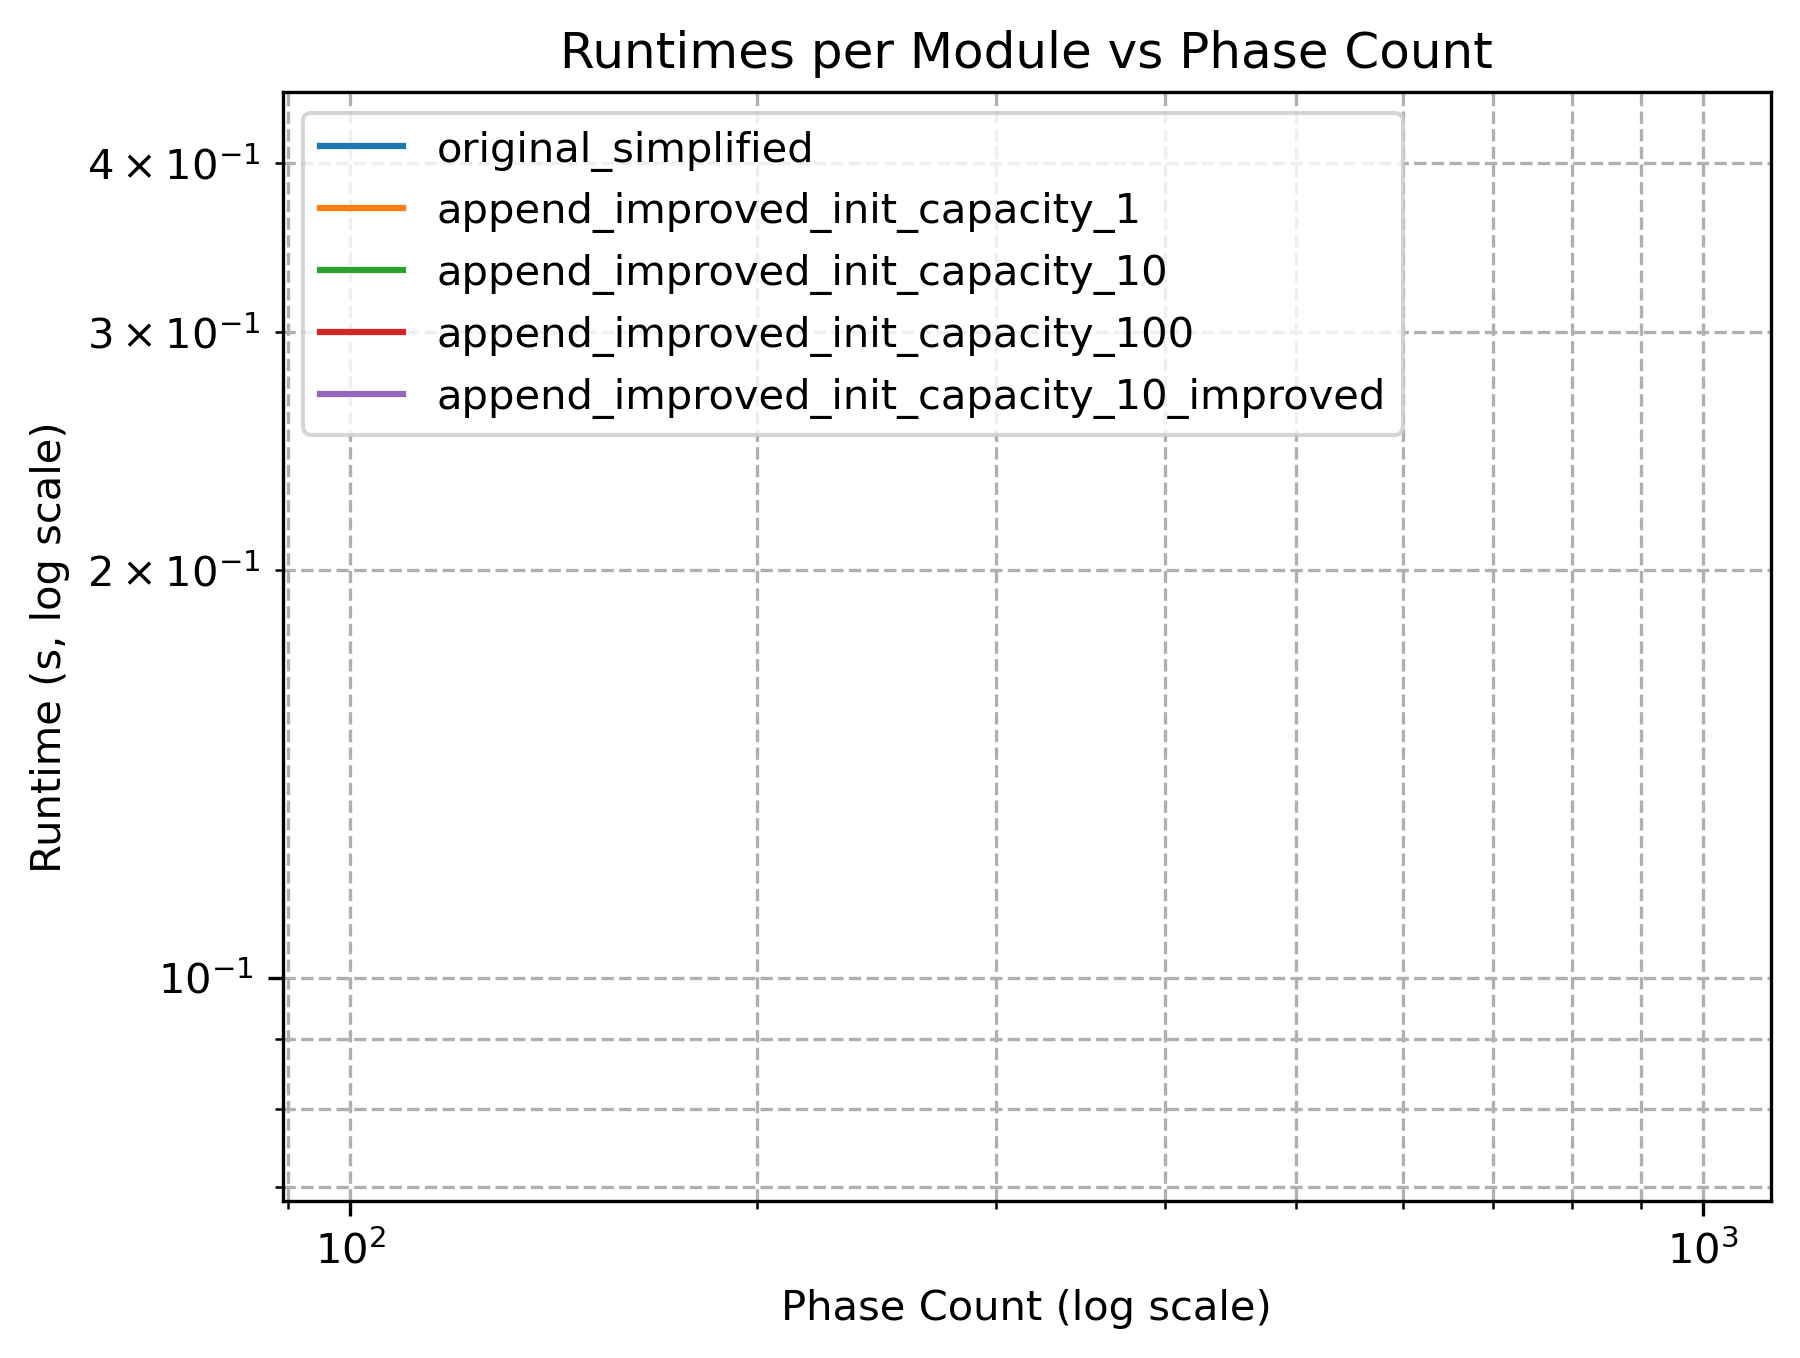
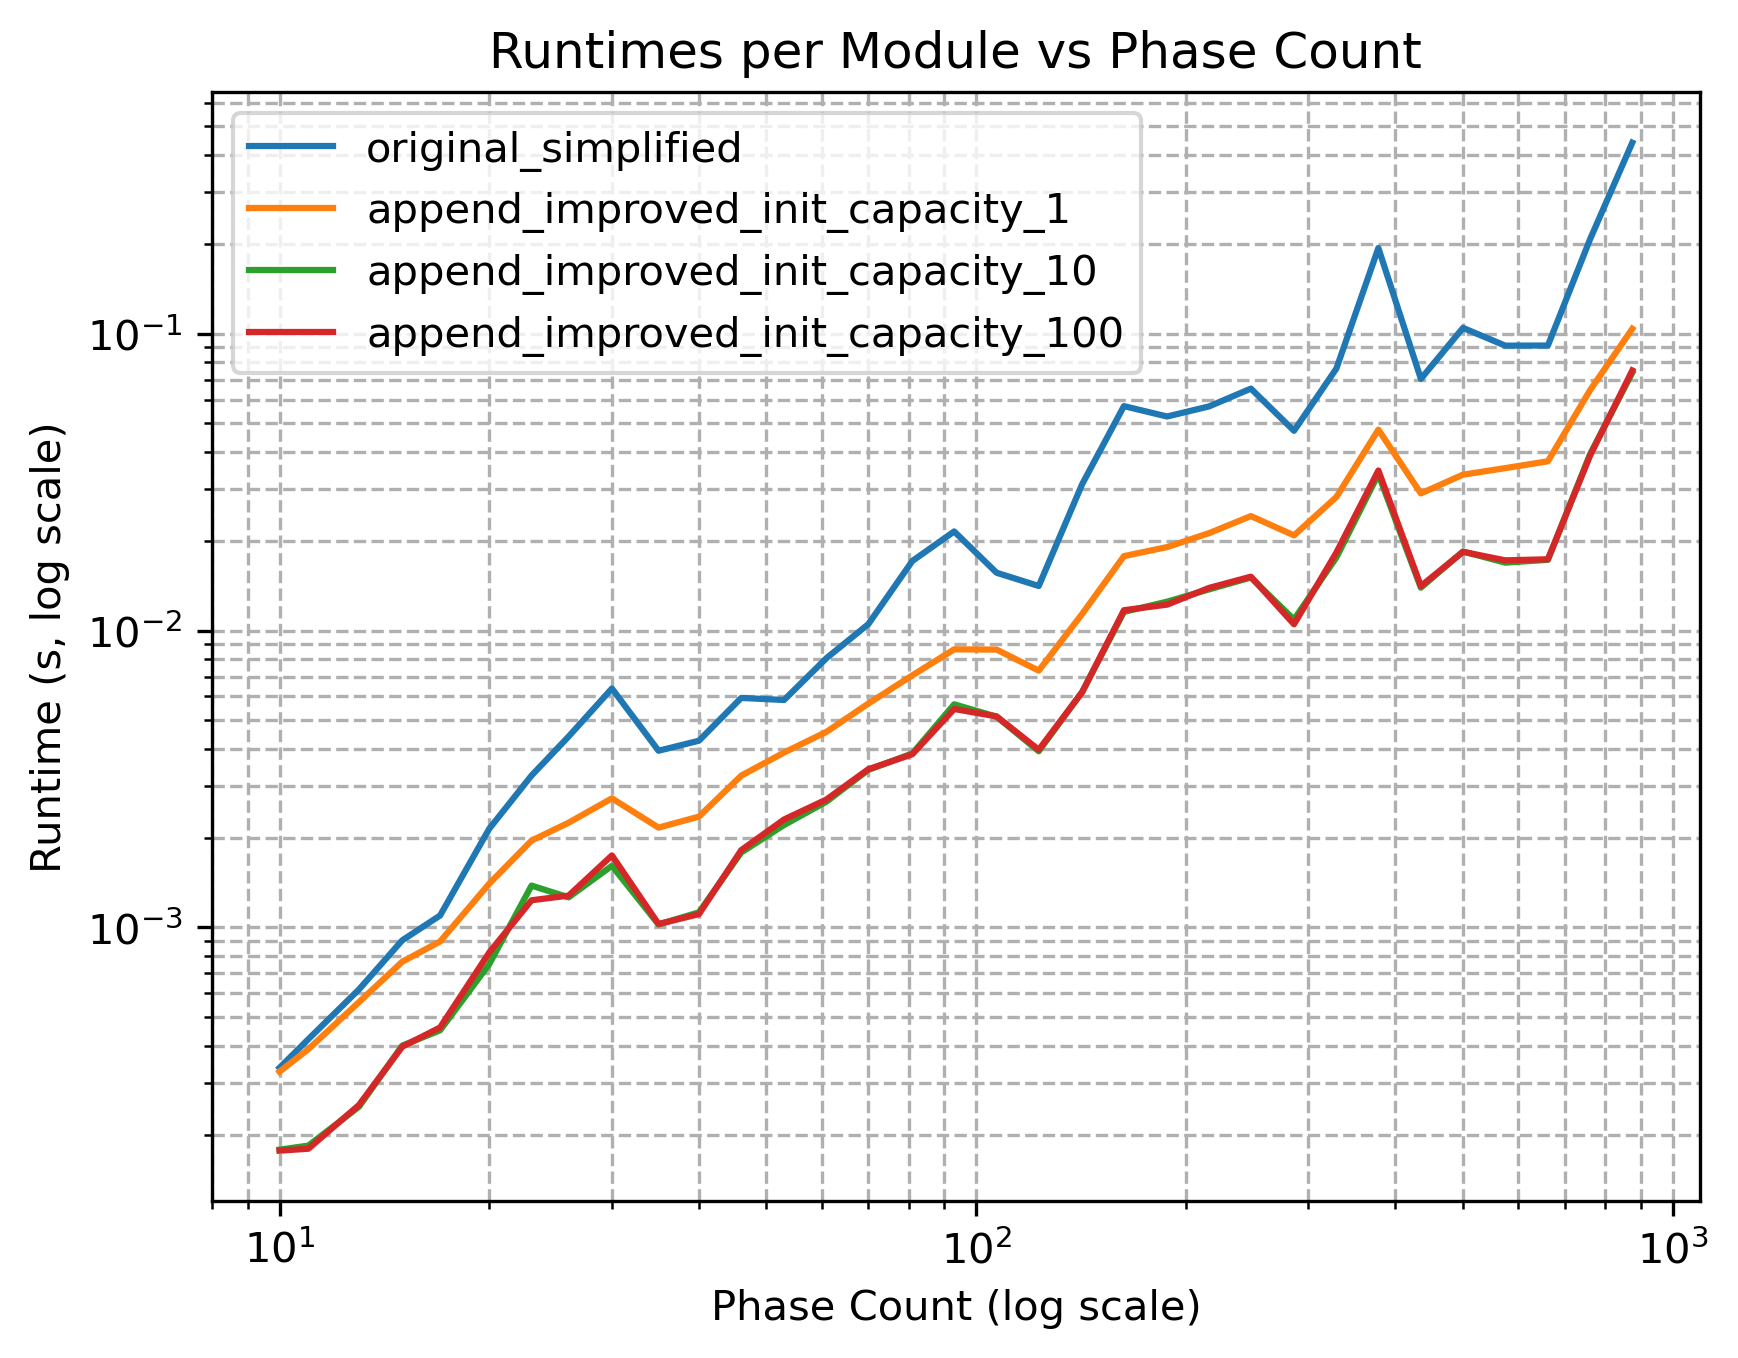
changed np.zeroes to np.empty

diff --git a/versions/append_improved_init_capacity_1/efes_dataclasses.py b/versions/append_improved_init_capacity_1/efes_dataclasses.py
@@ -22,13 +22,13 @@ class Phase:
         self.size_excess = 1
         self.size_deficit = 1
 
-        self.starts_excess = np.zeros(initial_capacity, dtype=type(0.))
-        self.starts_deficit = np.zeros(initial_capacity, dtype=type(0.))
-        self.energy_excess = np.zeros(initial_capacity, dtype=type(energy_excess))
-        self.energy_deficit = np.zeros(initial_capacity, dtype=type(energy_deficit))
-        self.excess_balanced = np.zeros(initial_capacity, dtype=bool)
-        self.deficit_balanced = np.zeros(initial_capacity, dtype=bool)
-        self.excess_ids = np.zeros(initial_capacity, dtype=type(id))
+        self.starts_excess = np.empty(initial_capacity, dtype=type(0.))
+        self.starts_deficit = np.empty(initial_capacity, dtype=type(0.))
+        self.energy_excess = np.empty(initial_capacity, dtype=type(energy_excess))
+        self.energy_deficit = np.empty(initial_capacity, dtype=type(energy_deficit))
+        self.excess_balanced = np.empty(initial_capacity, dtype=bool)
+        self.deficit_balanced = np.empty(initial_capacity, dtype=bool)
+        self.excess_ids = np.empty(initial_capacity, dtype=type(id))
 
         self.starts_excess[0] = 0.
         self.starts_deficit[0] = 0.

diff --git a/versions/append_improved_init_capacity_10/efes_dataclasses.py b/versions/append_improved_init_capacity_10/efes_dataclasses.py
@@ -22,13 +22,13 @@ class Phase:
         self.size_excess = 1
         self.size_deficit = 1
 
-        self.starts_excess = np.zeros(initial_capacity, dtype=type(0.))
-        self.starts_deficit = np.zeros(initial_capacity, dtype=type(0.))
-        self.energy_excess = np.zeros(initial_capacity, dtype=type(energy_excess))
-        self.energy_deficit = np.zeros(initial_capacity, dtype=type(energy_deficit))
-        self.excess_balanced = np.zeros(initial_capacity, dtype=bool)
-        self.deficit_balanced = np.zeros(initial_capacity, dtype=bool)
-        self.excess_ids = np.zeros(initial_capacity, dtype=type(id))
+        self.starts_excess = np.empty(initial_capacity, dtype=type(0.))
+        self.starts_deficit = np.empty(initial_capacity, dtype=type(0.))
+        self.energy_excess = np.empty(initial_capacity, dtype=type(energy_excess))
+        self.energy_deficit = np.empty(initial_capacity, dtype=type(energy_deficit))
+        self.excess_balanced = np.empty(initial_capacity, dtype=bool)
+        self.deficit_balanced = np.empty(initial_capacity, dtype=bool)
+        self.excess_ids = np.empty(initial_capacity, dtype=type(id))
 
         self.starts_excess[0] = 0.
         self.starts_deficit[0] = 0.

diff --git a/versions/append_improved_init_capacity_100/efes_dataclasses.py b/versions/append_improved_init_capacity_100/efes_dataclasses.py
@@ -22,13 +22,13 @@ class Phase:
         self.size_excess = 1
         self.size_deficit = 1
 
-        self.starts_excess = np.zeros(initial_capacity, dtype=type(0.))
-        self.starts_deficit = np.zeros(initial_capacity, dtype=type(0.))
-        self.energy_excess = np.zeros(initial_capacity, dtype=type(energy_excess))
-        self.energy_deficit = np.zeros(initial_capacity, dtype=type(energy_deficit))
-        self.excess_balanced = np.zeros(initial_capacity, dtype=bool)
-        self.deficit_balanced = np.zeros(initial_capacity, dtype=bool)
-        self.excess_ids = np.zeros(initial_capacity, dtype=type(id))
+        self.starts_excess = np.empty(initial_capacity, dtype=type(0.))
+        self.starts_deficit = np.empty(initial_capacity, dtype=type(0.))
+        self.energy_excess = np.empty(initial_capacity, dtype=type(energy_excess))
+        self.energy_deficit = np.empty(initial_capacity, dtype=type(energy_deficit))
+        self.excess_balanced = np.empty(initial_capacity, dtype=bool)
+        self.deficit_balanced = np.empty(initial_capacity, dtype=bool)
+        self.excess_ids = np.empty(initial_capacity, dtype=type(id))
 
         self.starts_excess[0] = 0.
         self.starts_deficit[0] = 0.
